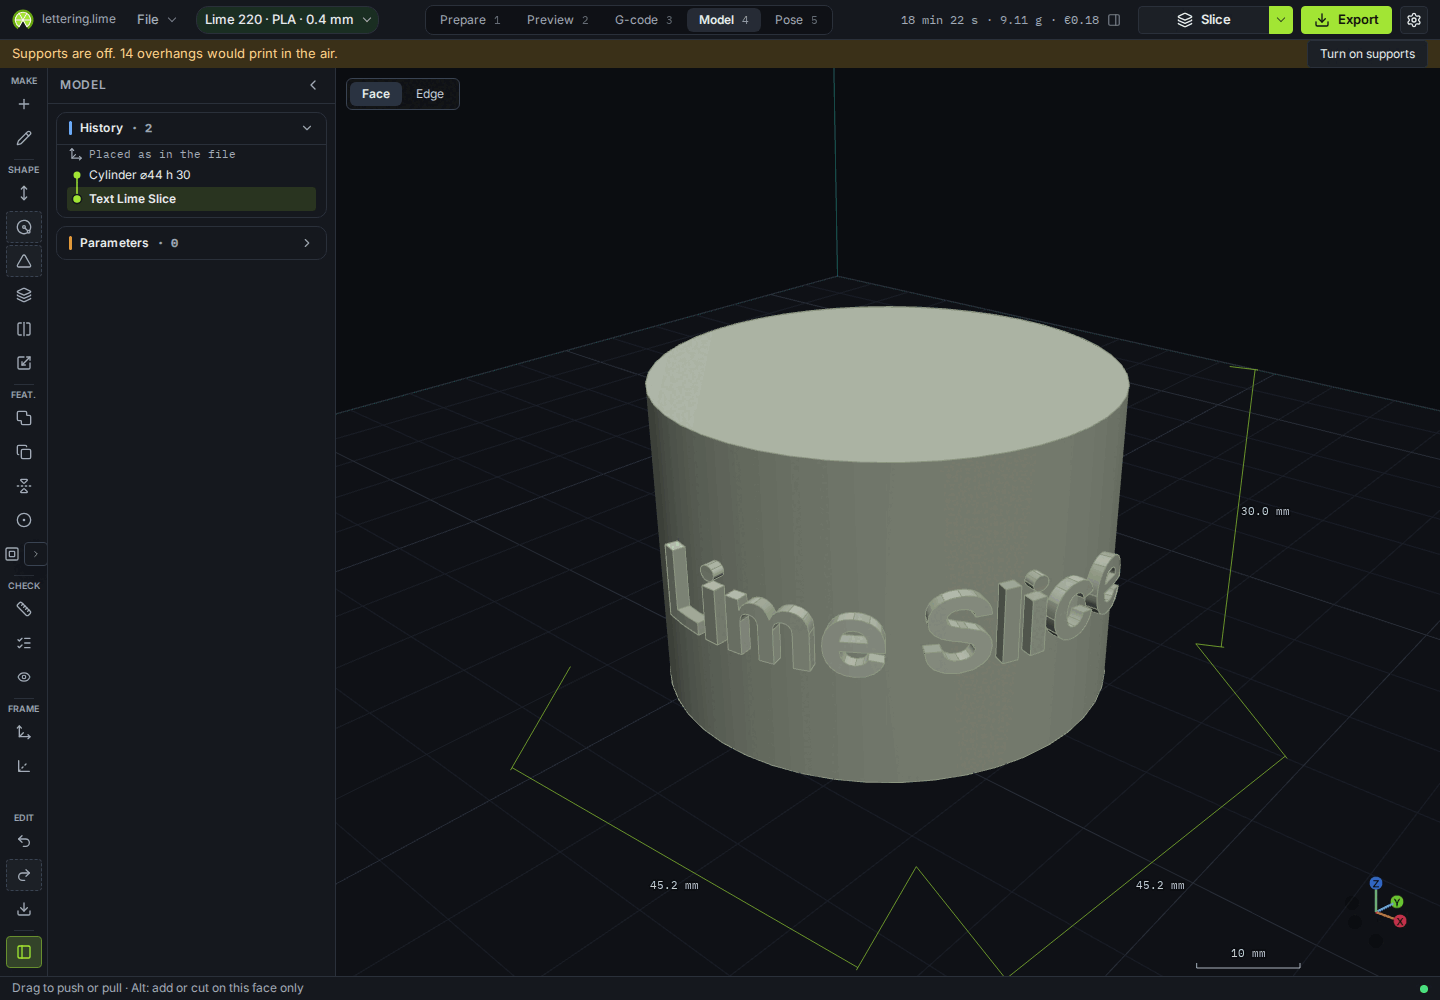
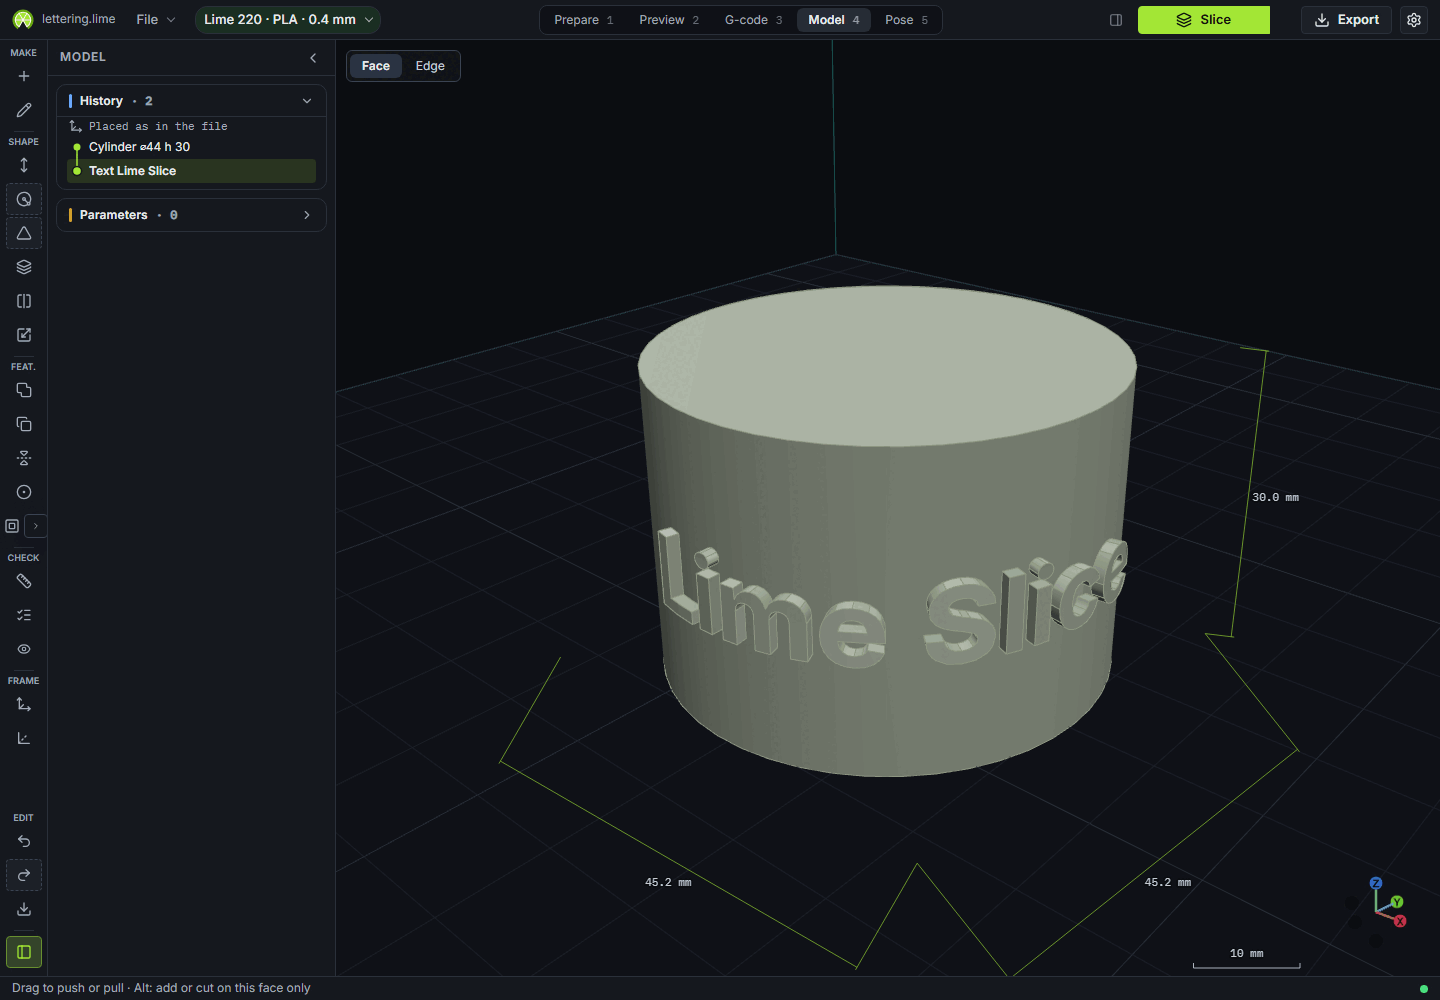
docs: retake the buckling picture and restore two README pictures
The buckling picture is now a 160 × 100 mm floor, 1 mm thick, with a 750 N edge force through the 100 mm × 1 mm section (7.5 MPa), seen from the front right. The lettering picture and the escapement clip go back to the ones on main: 0.739 s is the pendulum's free period, not the 0.78 s running period.

diff --git a/tools/readme-media/ribs.media.ts b/tools/readme-media/ribs.media.ts
@@ -2,15 +2,21 @@ import { expect, test, type Page } from "@playwright/test";
 import { openApp, still } from "./media";
 
 /**
- * Auto ribs with Resist buckling (docs/readme-media.md): a 64 × 40 × 14 mm box, shelled to a 2 mm wall with the top
- * open, planned on the inner floor. The force along the floor is raised until the card says "Buckles at", so the
- * numbers in the picture are the engine's. The part is built here. Nothing is loaded from outside the repository.
+ * Auto ribs with Resist buckling (docs/readme-media.md): a 160 × 100 × 20 mm box, shelled to a 1 mm wall with the
+ * top open, planned on the inner floor. The force runs along the 160 mm side, through the 100 mm × 1 mm section.
+ * A 30 N probe finds the critical load, and the picture uses the force that leaves the bare floor at about 1.3×,
+ * so the default 3× adds the ribs. The part is built here. Nothing is loaded from outside the repository.
  */
-const BOX = { modelDx: "64", modelDy: "40", modelDz: "14" };
-const TOP_MM2 = 64 * 40;
-const FLOOR_MM2 = (64 - 4) * (40 - 4);
+const BOX = { modelDx: "160", modelDy: "100", modelDz: "20" };
+const THICK = 1;
+const WIDTH = 100;
+const DIR = { x: "1", y: "0", z: "0" };
+const SECTION = WIDTH * THICK;
+const TOP_MM2 = 160 * 100;
+const FLOOR_MM2 = (160 - 2 * THICK) * (100 - 2 * THICK);
+const STRESS_CAP = 20;
 
-test("resist buckling on a shelled box", async ({ page }) => {
+test("resist buckling on a wide thin panel", async ({ page }) => {
   test.setTimeout(900_000);
   await page.addInitScript(() => localStorage.setItem("lime-slice-auto-slice", "0"));
   await openApp(page);
@@ -27,75 +33,120 @@ test("resist buckling on a shelled box", async ({ page }) => {
   await expect(page.locator("#modelShell")).toBeVisible();
   await page.mouse.click(top.x, top.y);
   await expect(page.locator("#modelReadout")).toContainText(`${TOP_MM2} mm²`);
-  await fill(page, "modelShell", "2");
+  await fill(page, "modelShell", String(THICK));
   await page.locator("#modelApply").click();
-  await expect.poll(async () => volume(page), { timeout: 120_000 }).toBeLessThan(15_000);
+  await expect.poll(async () => volume(page), { timeout: 120_000 }).toBeLessThan(160_000);
+  await expect(page.locator("#modelReadout")).toContainText("Shell");
 
   await page.locator("#modelFeatureMore").click();
   await page.locator("#modelMenuAutoRibs").click();
   await expect(page.locator("#modelPanelTitle")).toHaveText("Auto ribs");
-  await lookDown(page);
+  await look(page, "t");
   await page.locator("#autoRibsJustThis").check();
   const floor = await innerFloor(page);
-  await expect(page.locator("#autoRibsWallLine")).toContainText("wall 2 mm");
+  await expect(page.locator("#autoRibsWallLine")).toContainText(`wall ${THICK} mm`);
 
   await page.locator("#autoRibsHowMuch > summary").click();
   await page.getByRole("button", { name: "Resist buckling" }).click();
   await expect(page.locator("#autoRibsSliderMid")).toHaveText("3×");
   await page.locator("#autoRibsHoldLoad > summary").click();
   await page.locator("#autoRibsLoadForce").click();
-  await fill(page, "autoRibsDirX", "1");
-  await fill(page, "autoRibsDirY", "0");
-  await fill(page, "autoRibsDirZ", "0");
-  await fill(page, "autoRibsForce", "200");
+  await fill(page, "autoRibsDirX", DIR.x);
+  await fill(page, "autoRibsDirY", DIR.y);
+  await fill(page, "autoRibsDirZ", DIR.z);
+  await fill(page, "autoRibsForce", "30");
   await page.locator("#autoRibsLoadPick").click();
   await page.mouse.click(floor.x, floor.y);
+  await page.locator("#autoRibsLoadPick").click();
 
-  let force = 200;
-  let gain = "";
-  for (let attempt = 0; attempt < 3; attempt += 1) {
-    const field = page.locator("#autoRibsForce");
-    await field.scrollIntoViewIfNeeded();
-    await field.fill(String(force));
-    await field.press("Tab");
-    await expect(field).toHaveValue(String(force));
-    const previous = (await page.locator("#autoRibsGain").innerText()).trim();
-    await page.locator("#modelApply").click();
-    let outcome = "";
-    await expect.poll(async () => {
-      const error = page.locator("#autoRibsError");
-      if (await error.isVisible()) outcome = `error:${(await error.innerText()).trim()}`;
-      else if (await page.locator("#autoRibsGain").isVisible()) {
-        const text = (await page.locator("#autoRibsGain").innerText()).trim();
-        outcome = text && text !== previous ? `gain:${text}` : "";
-      } else outcome = "";
-      return outcome;
-    }, { timeout: 240_000 }).not.toBe("");
-    if (outcome.startsWith("error:")) throw new Error(`auto ribs: ${outcome.slice(6)}`);
-    gain = outcome.slice(5);
-    const held = /The wall already holds ([\d.]+)×/.exec(gain);
-    if (!held) break;
-    const factor = Number(held[1]);
-    const next = Math.max(force + 1, Math.ceil((force * factor) / 2.5));
-    console.log(`force ${force} N already holds ${factor}×; trying ${next} N`);
-    force = next;
-  }
-  await expect(page.locator("#autoRibsGain")).toHaveText(/^Buckles at \d+(\.\d)?× the load \(was \d+(\.\d)?×\)\.$/);
-  await expect(page.locator("#autoRibsNotes")).toContainText("This is the ideal buckling load. A curved wall, or one that isn't perfectly flat, can buckle well below it.");
-  await expect(page.locator(".toast-error")).toHaveCount(0);
-
-  await page.locator("#autoRibsNotes").scrollIntoViewIfNeeded();
+  const probe = await planAt(page, 30);
+  if (!probe.ok) throw new Error(`the 30 N probe was refused: ${probe.text}`);
+  const held = /The wall already holds ([\d.]+)×/.exec(probe.text);
+  if (!held) throw new Error(`the 30 N probe did not report a factor: ${probe.text}`);
+  const pcr = 30 * Number(held[1]);
+  const force = Math.round(pcr / 1.3);
+  console.log(`ribs-buckling probe 30 N holds ${held[1]}×, critical load about ${Math.round(pcr)} N; trying ${force} N (${stress(force)} MPa)`);
+  if (stress(force) > STRESS_CAP) throw new Error(`${force} N is ${stress(force)} MPa, over ${STRESS_CAP} MPa`);
+  const planned = await planAt(page, force);
+  if (!planned.ok) throw new Error(`the plan refused ${force} N: ${planned.text}`);
+  const buckled = /Buckles at ([\d.]+)× the load \(was ([\d.]+)×\)/.exec(planned.text);
+  if (!buckled) throw new Error(`the plan did not add ribs: ${planned.text}`);
+  const bare = Number(buckled[2]);
+  const ribbed = Number(buckled[1]);
+  const ribs = await page.locator("#autoRibsList [data-rib]").count();
+  const goal = page.locator("#autoRibsGoal");
+  const goalText = (await goal.isVisible()) ? (await goal.innerText()).replace(/\s+/g, " ").trim() : "";
+  const compare = (await page.locator("#autoRibsCompare").innerText()).replace(/\s+/g, " ").trim();
+  const notes = (await page.locator("#autoRibsNotes").innerText()).replace(/\s+/g, " ").trim();
+  const loose = /stop short/.test(goalText);
+  const compared = /thicker/.test(compare) && !/not computed/.test(compare) && !/Stopped before/.test(compare);
+  const lines = (await page.locator("#autoRibsList [data-rib]").allInnerTexts()).map((t) => t.replace(/\s+/g, " ").trim());
+  console.log(`ribs-buckling box ${BOX.modelDx} × ${BOX.modelDy} × ${BOX.modelDz} mm, shell ${THICK} mm`);
+  console.log(`ribs-buckling force ${force} N`);
+  console.log(`ribs-buckling section ${WIDTH} mm × ${THICK} mm`);
+  console.log(`ribs-buckling membrane stress ${stress(force)} MPa`);
+  console.log(`ribs-buckling bare ${bare}×, ribbed ${ribbed}×`);
+  console.log(`ribs-buckling ribs ${ribs}`);
+  console.log(`ribs-buckling rib lines: ${lines.join(" | ") || "(none)"}`);
+  console.log(`ribs-buckling comparisons computed: ${compared}`);
+  console.log(`ribs-buckling compare: ${compare}`);
+  console.log(`ribs-buckling loose-end warning: ${loose}`);
+  console.log(`ribs-buckling goal: ${goalText || "(none)"}`);
+  console.log(`ribs-buckling notes: ${notes}`);
+  await page.locator("#autoRibsHoldLoad").evaluate((el) => {
+    (el as HTMLDetailsElement).open = false;
+  });
+  await page.locator("#autoRibsHowMuch").evaluate((el) => {
+    (el as HTMLDetailsElement).open = false;
+  });
+  await look(page, "i");
+  const view = (await page.locator("#model").boundingBox())!;
+  await page.mouse.move(view.x + view.width * 0.62, view.y + view.height * 0.55);
+  await page.mouse.wheel(0, -1400);
+  await page.waitForTimeout(400);
   await page.locator("#autoRibsGain").scrollIntoViewIfNeeded();
+  // The alt quotes this plan. A finished buckling plan leaves the stiffness baselines empty, so the card says
+  // they were not computed, and it does not run the extension pass, so the short rib is listed as stopping short.
+  if (force !== 750 || bare !== 1.3 || ribbed !== 3.1 || ribs !== 2 || !loose || compared) {
+    await page.screenshot({ path: "/tmp/ribs-last.png" });
+    throw new Error(`plan is not the picture the alt describes: ${force} N, ${ribs} ribs, loose ${loose}, bare ${bare}×, ribbed ${ribbed}×, comparisons ${compared}`);
+  }
+  await expect(page.locator(".toast-error")).toHaveCount(0);
   const box = (await page.locator("#model").boundingBox())!;
   await page.mouse.move(box.x + 8, box.y + box.height - 8);
-  await page.waitForTimeout(600);
-  gain = (await page.locator("#autoRibsGain").innerText()).trim();
-  const notes = (await page.locator("#autoRibsNotes").innerText()).trim();
-  console.log(`ribs-buckling force ${force} N`);
-  console.log(`ribs-buckling gain: ${gain}`);
-  console.log(`ribs-buckling notes: ${notes}`);
+  await page.waitForTimeout(700);
   await still(page, "ribs-buckling.png");
 });
+
+function stress(force: number): string {
+  return (force / SECTION).toFixed(3);
+}
+
+/** Fill the force, Apply, and wait until the gain line is a new sentence or the card refuses the load. */
+async function planAt(page: Page, force: number): Promise<{ ok: boolean; text: string }> {
+  await fill(page, "autoRibsDirX", DIR.x);
+  await fill(page, "autoRibsDirY", DIR.y);
+  await fill(page, "autoRibsDirZ", DIR.z);
+  const field = page.locator("#autoRibsForce");
+  await field.scrollIntoViewIfNeeded();
+  await field.fill(String(force));
+  await field.press("Tab");
+  await expect(field).toHaveValue(String(force));
+  const previous = (await page.locator("#autoRibsGain").innerText()).trim();
+  await page.locator("#modelApply").click();
+  let outcome = "";
+  await expect.poll(async () => {
+    const error = page.locator("#autoRibsError");
+    if (await error.isVisible()) outcome = `error:${(await error.innerText()).trim()}`;
+    else if (await page.locator("#autoRibsGain").isVisible()) {
+      const text = (await page.locator("#autoRibsGain").innerText()).trim();
+      outcome = text && text !== previous ? `gain:${text}` : "";
+    } else outcome = "";
+    return outcome;
+  }, { timeout: 600_000 }).not.toBe("");
+  if (outcome.startsWith("error:")) return { ok: false, text: outcome.slice(6) };
+  return { ok: true, text: outcome.slice(5) };
+}
 
 async function fill(page: Page, id: string, value: string) {
   const field = page.locator(`#${id}`);
@@ -133,19 +184,19 @@ async function handleAt(page: Page, id: string): Promise<{ x: number; y: number 
   return null;
 }
 
-/** Top view, so the open top shows the inner floor. T is the Model command; blur first so it is not typed into a field. */
-async function lookDown(page: Page) {
+/** T is top, I is the three-quarter iso. Blur first so the key is not typed into a field. */
+async function look(page: Page, key: "t" | "i") {
   await page.evaluate(() => {
     const active = document.activeElement;
     if (active instanceof HTMLElement) active.blur();
   });
-  await page.keyboard.press("t");
-  await page.waitForTimeout(400);
+  await page.keyboard.press(key);
+  await page.waitForTimeout(500);
 }
 
 /**
  * Click the inner floor. Each try starts from a clear wall, because a click toggles the face it hits.
- * The floor is the single face of about (64 − 4) × (40 − 4) mm², 2 mm thick.
+ * The floor is the single face of about (160 − 2) × (100 − 2) mm², 1 mm thick.
  */
 async function innerFloor(page: Page): Promise<{ x: number; y: number }> {
   const box = (await page.locator("#model").boundingBox())!;
@@ -167,7 +218,7 @@ async function innerFloor(page: Page): Promise<{ x: number; y: number }> {
     }
   }
   await page.screenshot({ path: "/tmp/ribs-floor-miss.png" });
-  throw new Error(`inner floor (~${FLOOR_MM2} mm²) was not found; last wall line: ${last}`);
+  throw new Error(`inner floor (~${Math.round(FLOOR_MM2)} mm²) was not found; last wall line: ${last}`);
 }
 
 async function clickFloor(page: Page, at: { x: number; y: number }): Promise<boolean> {
@@ -178,11 +229,11 @@ async function clickFloor(page: Page, at: { x: number; y: number }): Promise<boo
     await expect.poll(async () => {
       text = await line.innerText();
       return /wall /.test(text) && !/reading/.test(text);
-    }, { timeout: 8_000 }).toBe(true);
+    }, { timeout: 20_000 }).toBe(true);
   } catch {
     return false;
   }
   text = await line.innerText();
   const area = Number(/([\d,]+) mm²/.exec(text)?.[1]?.replace(/,/g, ""));
-  return /^1 face/.test(text) && /wall 2 mm/.test(text) && Math.abs(area - FLOOR_MM2) < 200;
+  return /^1 face/.test(text) && new RegExp(`wall ${THICK} mm`).test(text) && Math.abs(area - FLOOR_MM2) < 400;
 }

diff --git a/README.md b/README.md
@@ -30,7 +30,7 @@ Model edits a STEP solid, or starts one from a primitive, a gear, a part, or a s
 - **STEP in and out.** A STEP file with several solids can open as one object per solid. The STEP button writes the solid on screen as AP214.
 - **Measure, Check, Section view**, and a part you hide to reach the one behind it.
 
-<img alt="Raised Inter Bold letters wrapped round a 44 mm cylinder, with History showing the cylinder and the text step. A banner says supports are off and 14 overhangs would print in the air." src="docs/screenshots/model-text.png" width="720">
+<img alt="Raised Inter Bold letters wrapped round a 44 mm cylinder, with History showing the cylinder and the text step." src="docs/screenshots/model-text.png" width="720">
 
 <img alt="Split to print on a 320 mm bar: the card says the Lime 220 bed fits 210 mm and proposes one cut; the two pieces are coloured on either side of the plane." src="docs/screenshots/model-split.png" width="720">
 
@@ -49,7 +49,7 @@ Parts can be attached into an assembly and given joints: fixed, hinge, slide, ba
 
 <img alt="A Graham escapement run in time: the pendulum swings, the anchor rocks and the escape wheel steps a tooth each beat. Drawn by the MCP server's motion_run." src="docs/screenshots/clip-escapement.gif" width="300">
 
-The escapement above was built and run over MCP with `motion_run`: from a 3.5° push the swing is still falling, last 3.127° each side, and the free period is 0.739 s. Assemblies also export as STEP, and an interference check lists parts that cross.
+The escapement above was built and run over MCP with `motion_run`: from a 3.5° push it settles at a swing of 3.1° each side with a period of 0.78 s. Assemblies also export as STEP, and an interference check lists parts that cross.
 
 ### Plugins and recipes
 
@@ -117,7 +117,7 @@ The worked example and the trust levels are in [docs/modeler-guide.md](docs/mode
 - **Side walls.** Include side walls (folded) takes a cover's side walls into the same wall across its sharp edges, so ribs can run over a crease. It is off unless checked.
 - **Moulding checks.** With the moulded process, the result lists each moulding rule a rib breaks: base thickness, root radius, height, draft, the junction where ribs meet, and the gap between ribs. It is a report and changes nothing.
 
-<img alt="Auto ribs, Resist buckling, on the inner floor of a 64 × 40 × 14 mm box shelled to a 2 mm wall with the top open. The floor is 2,160 mm². The card says Buckles at 4.2× the load (was 2.5×), and that this is the ideal buckling load." src="docs/screenshots/ribs-buckling.png" width="720">
+<img alt="Auto ribs, Resist buckling, on the inner floor of a 160 × 100 × 20 mm box shelled to a 1 mm wall with the top open. The floor is 15,484 mm². A 750 N force along the floor goes through the 100 mm × 1 mm section, 7.5 MPa. The card says Buckles at 3.1× the load (was 1.3×), that this is the ideal buckling load, that 2 rib ends stop short of a wall, and that the comparisons were not computed." src="docs/screenshots/ribs-buckling.png" width="720">
 
 The stiffness numbers are relative, since the material cards are placeholders. Over MCP the same planner is `ribs_plan` and `ribs_apply`.
 

diff --git a/docs/readme-media.md b/docs/readme-media.md
@@ -12,7 +12,7 @@ The pictures and clips in `README.md` are made by `tools/readme-media`, so they 
 | `clip-gear-train.gif` | `pose.media.ts` | three gears built by `mcp-media.ts`, coupled in Pose and turned |
 | `clip-escapement.gif` | `mcp-media.ts` | a Graham escapement run by `motion_run` and drawn by the MCP server |
 | `stress-cantilever.png` | `stress.media.ts` | the Stress worked example, with the engine's recorded reply (`e2e/fixtures/sim-cantilever.json`) |
-| `ribs-buckling.png` | `ribs.media.ts` | a 64 × 40 × 14 mm box, shelled to a 2 mm wall with the top open, then Auto ribs on the inner floor at Resist buckling (the default 3×) with a force along the floor. The card shows "Buckles at N× the load (was M×)." and the ideal-load warning |
+| `ribs-buckling.png` | `ribs.media.ts` | a 160 × 100 × 20 mm box, shelled to a 1 mm wall with the top open, then Auto ribs on the inner floor at Resist buckling (the default 3×). The force, 750 N along the 160 mm side, goes through the 100 mm × 1 mm section (7.5 MPa). The card shows "Buckles at 3.1× the load (was 1.3×).", the ideal-load warning, "2 rib ends stop short of a wall or another rib", and "The comparisons were not computed." |
 | `model-parts.png` | `parts.media.ts` | the Part card with its kind select open on Fasteners, Fittings, Brackets and Pulleys, and three parts the script built: a Nut M6, a GT2 pulley of 20 teeth and an L-bracket 40 × 30 × 3, M4 |
 | `prepare-phone.png`, `preview-phone.png`, `model-phone.png` | `phone.media.ts` | the compact layout at 390 × 844 |
 
